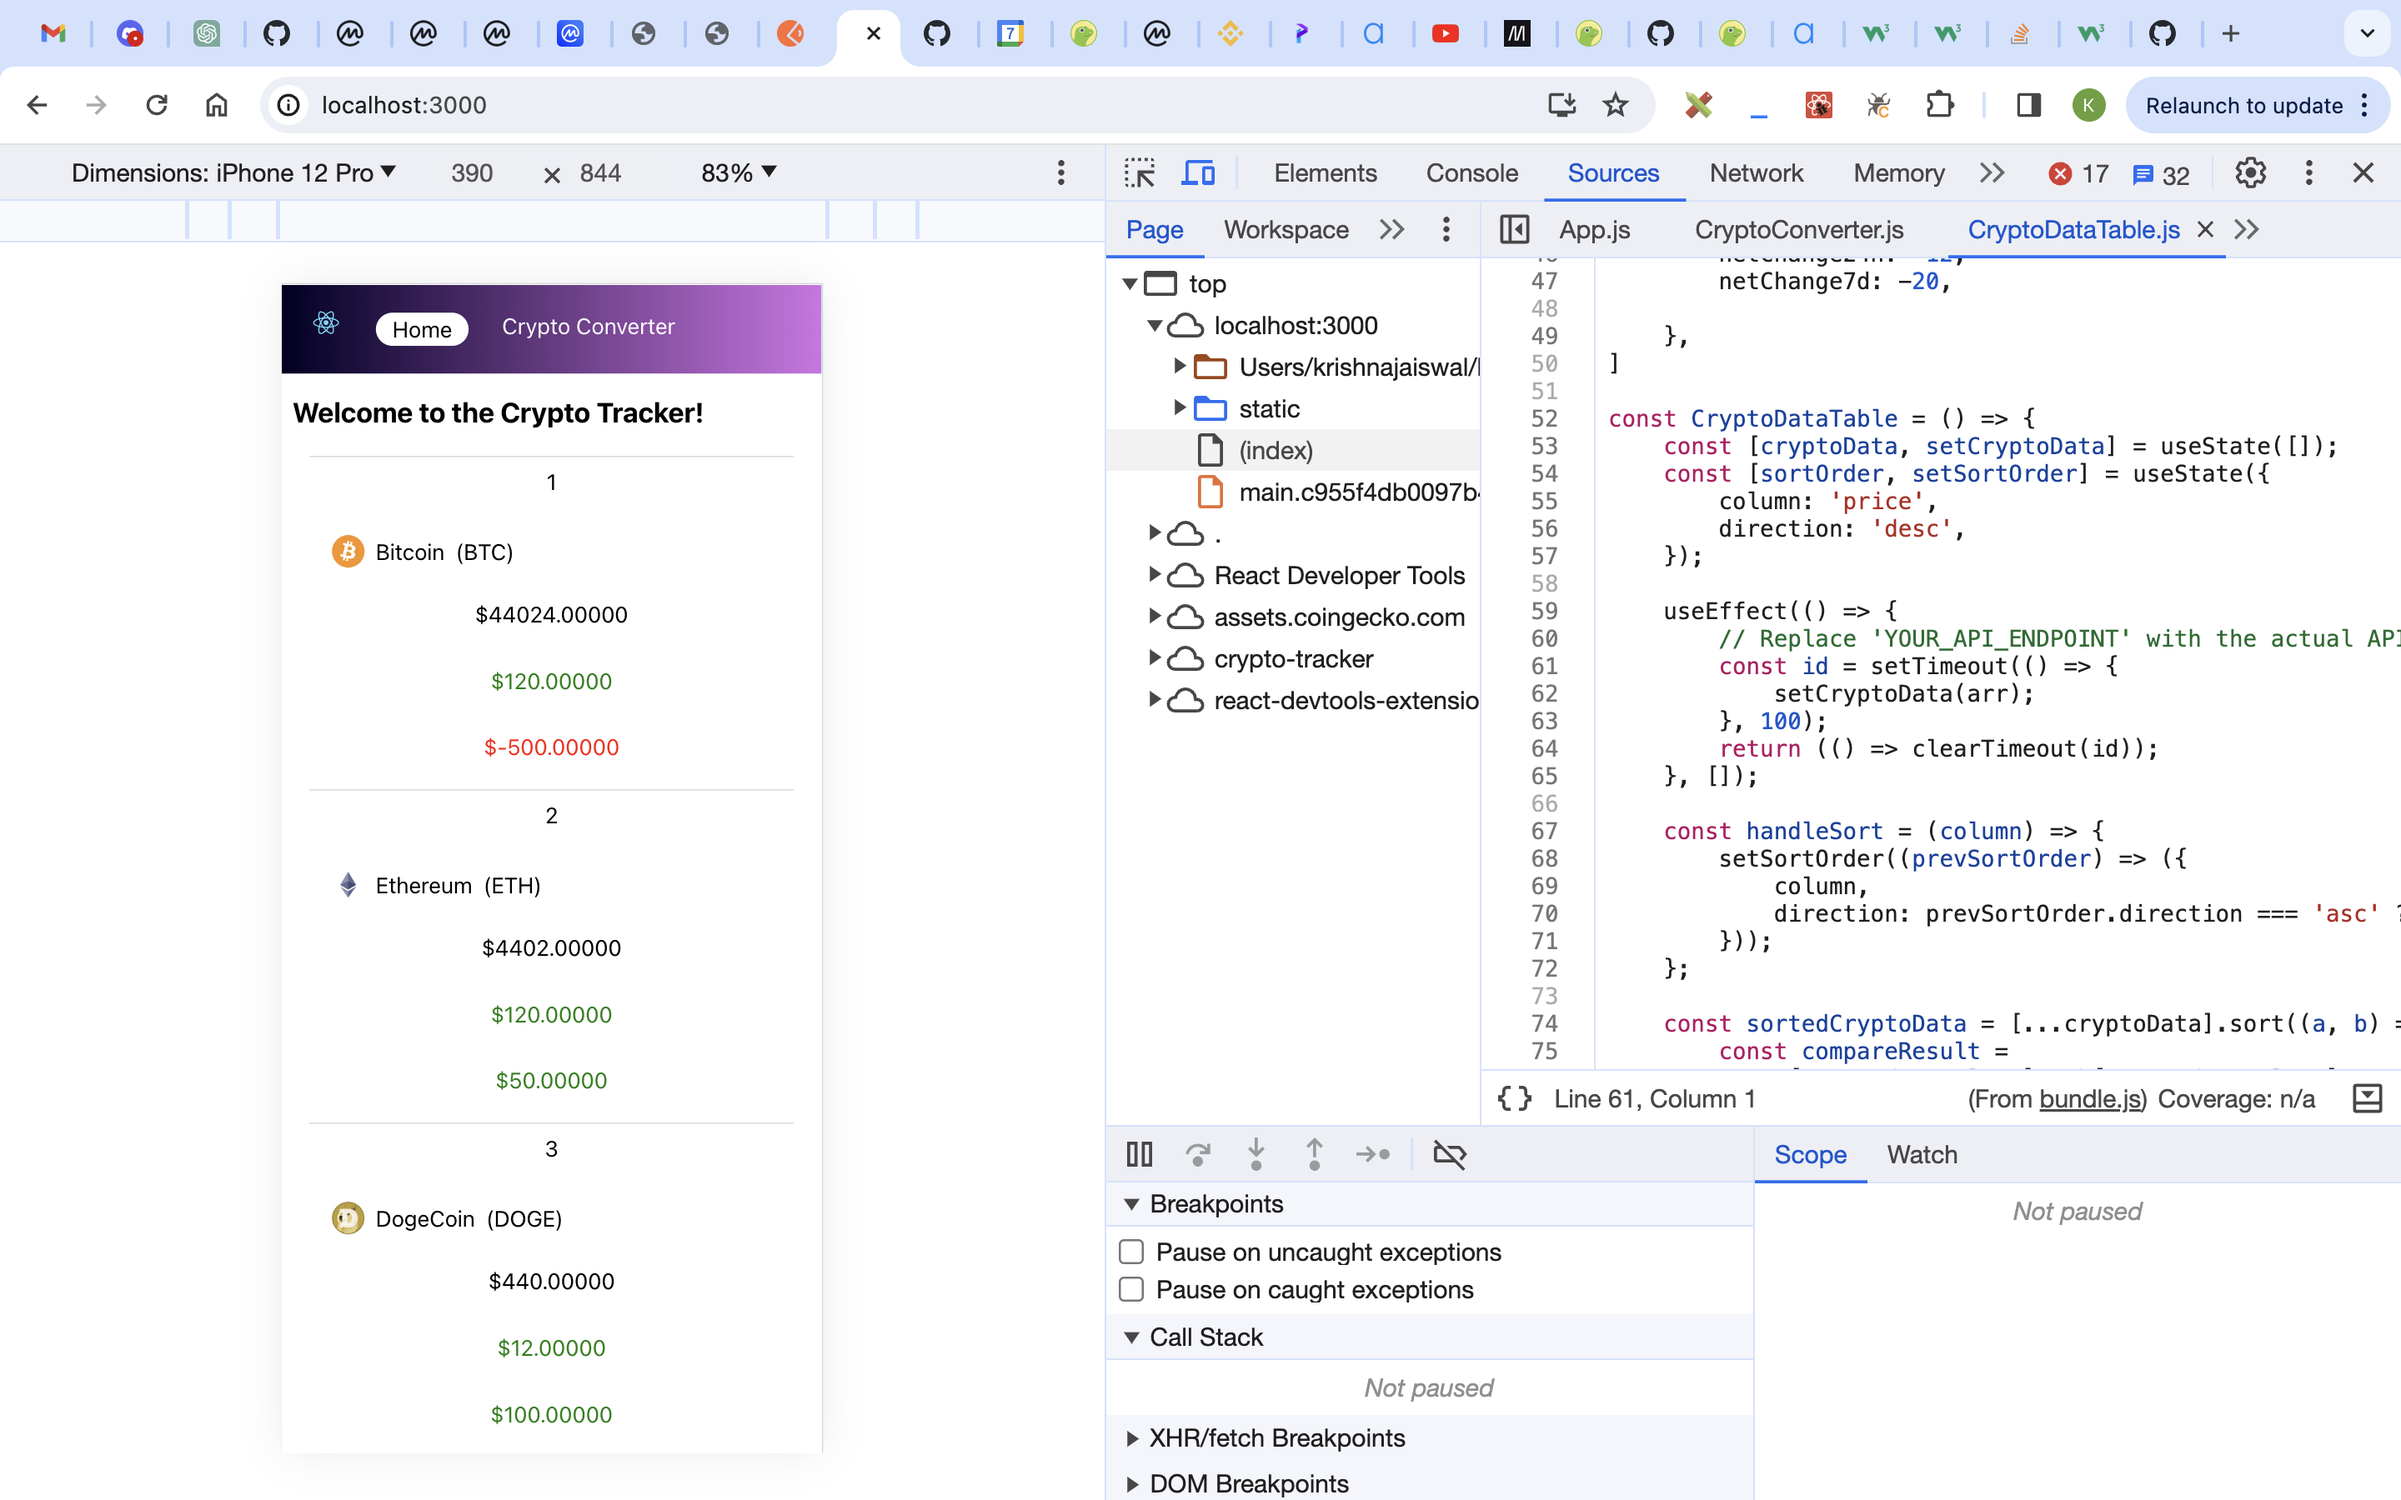
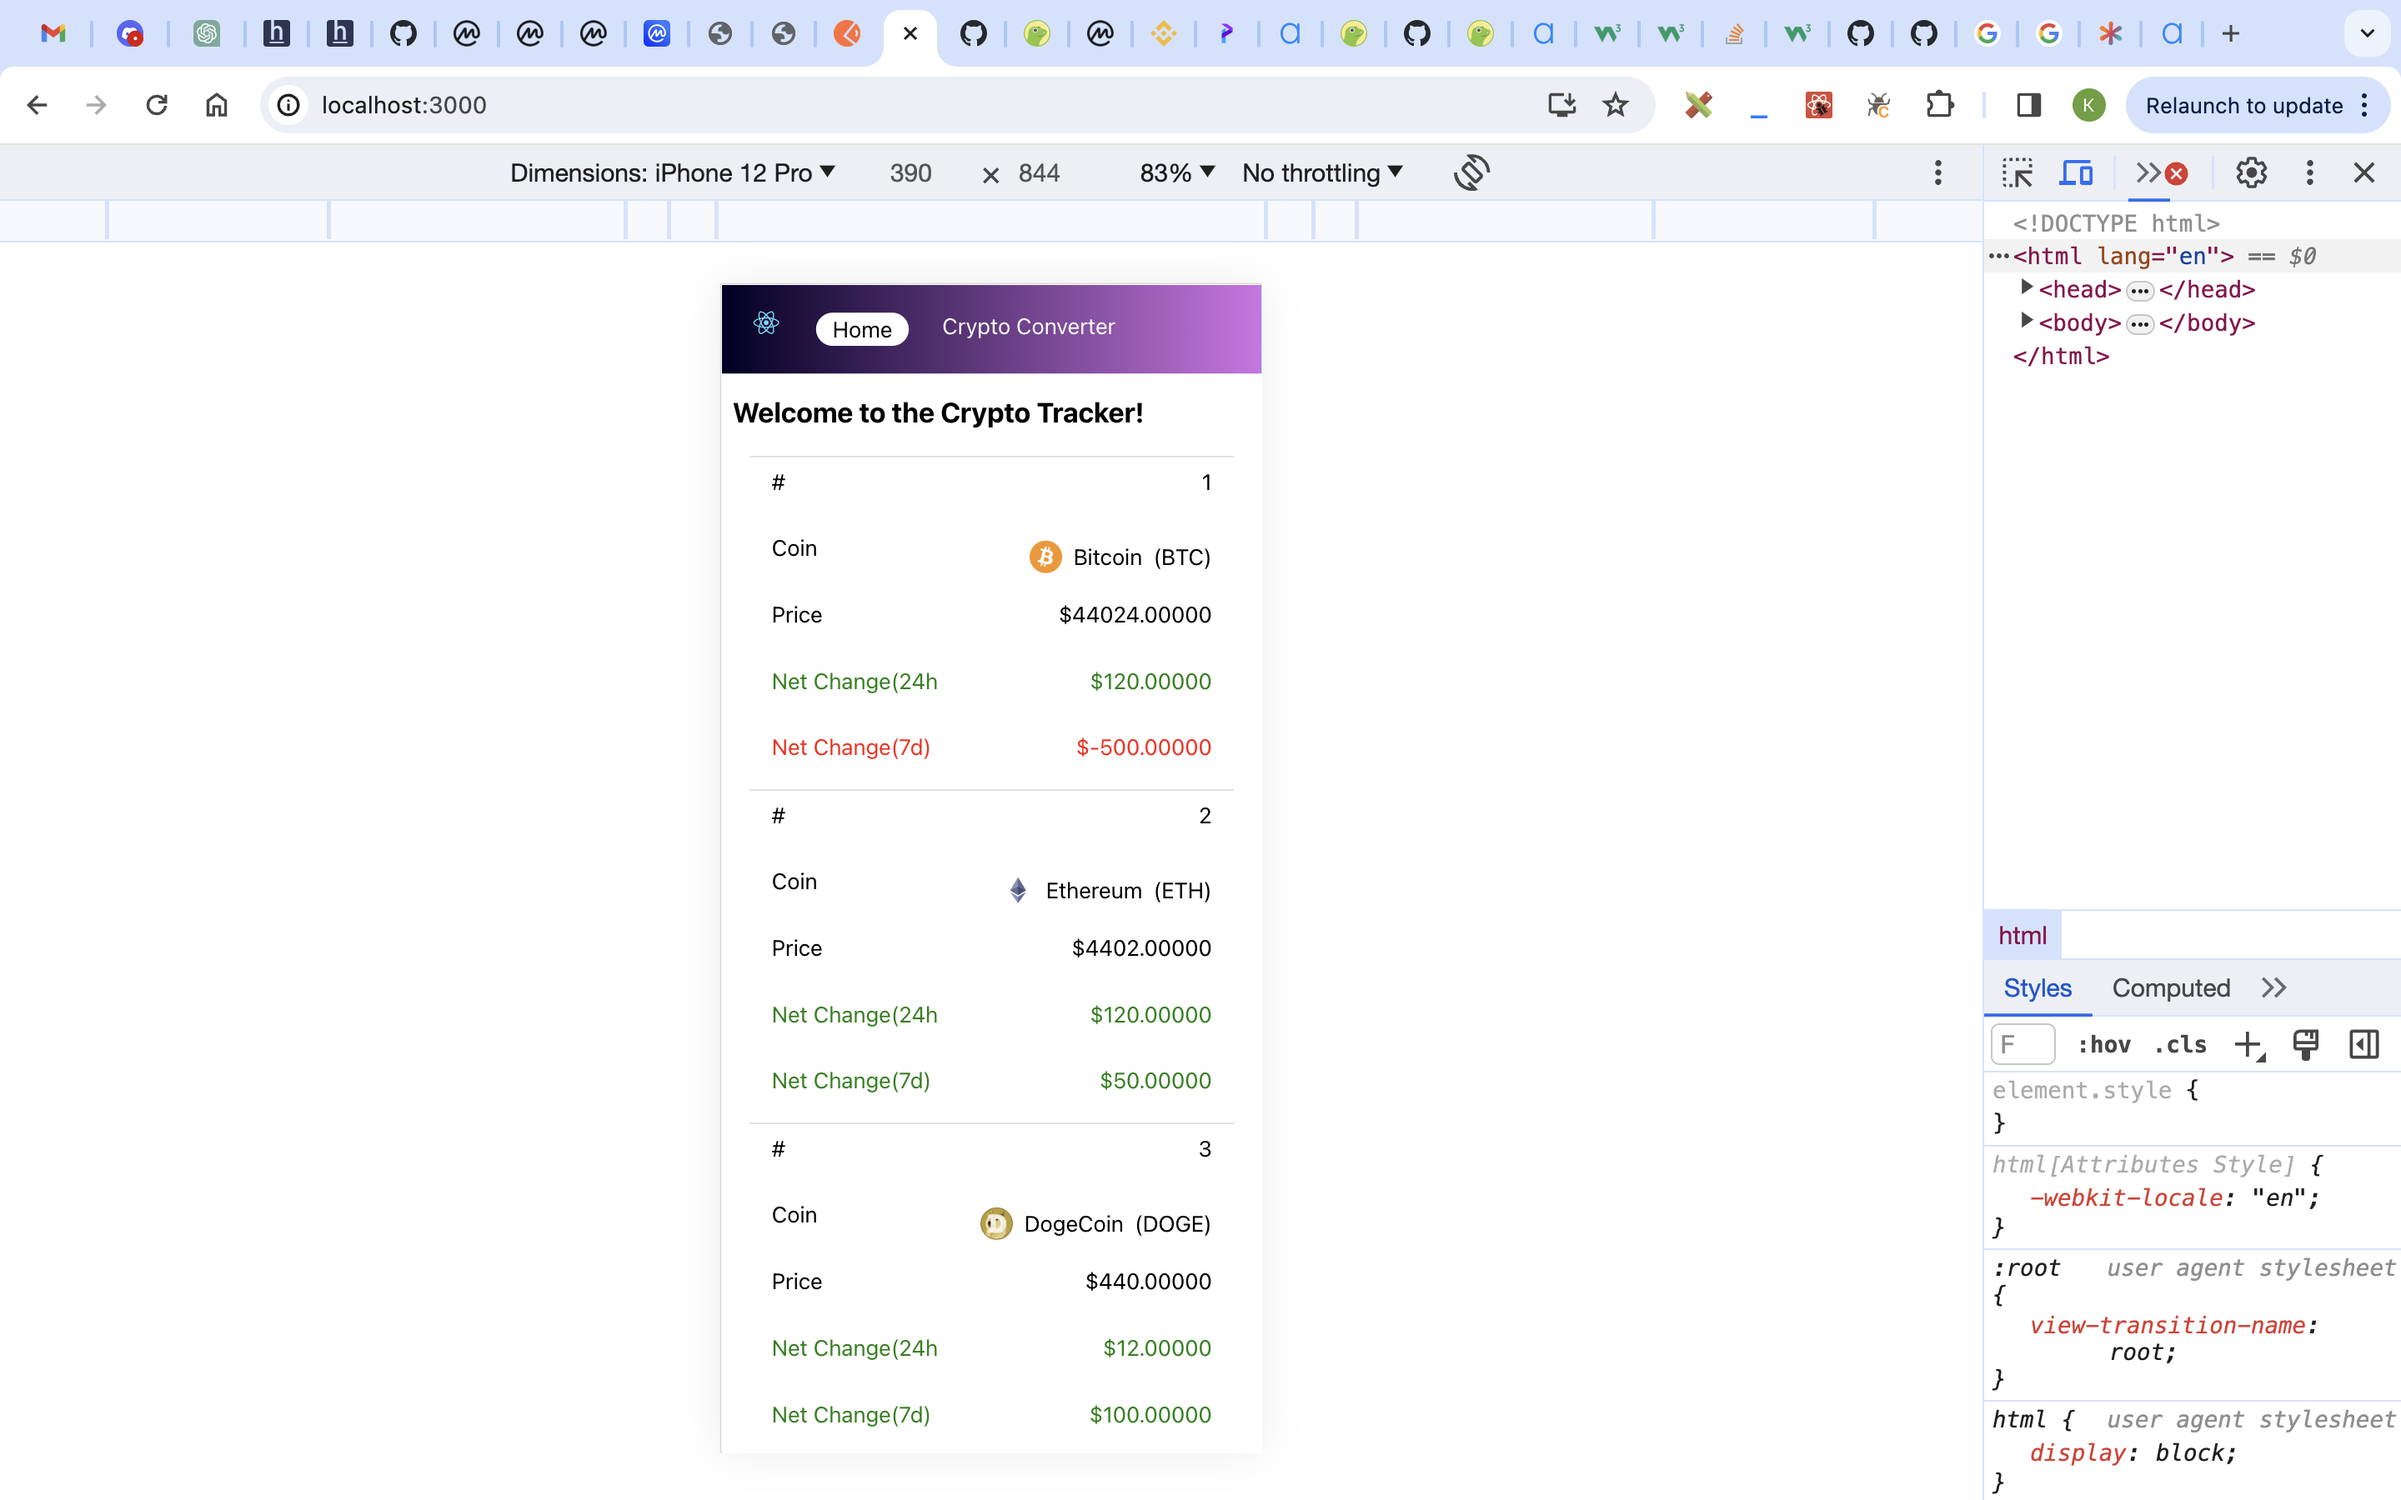
Changing image for mobile devices

diff --git a/src/components/CryptoDataTable.css b/src/components/CryptoDataTable.css
@@ -55,11 +55,19 @@ img {
     }
 
     td {
+        display: flex;
+        justify-content: space-between;
         border: none;
     }
 
     th {
         display: none;
+    }
+
+    .middle {
+        display: flex;
+        justify-content: center;
+        align-items: center;
     }
 
     tr {
@@ -69,4 +77,25 @@ img {
     .numberAlignment {
         text-align: center;
     }
+
+    td:nth-of-type(1):before {
+        content: "#";
+    }
+
+    td:nth-of-type(2):before {
+        content: "Coin";
+    }
+
+    td:nth-of-type(3):before {
+        content: "Price";
+    }
+
+    td:nth-of-type(4):before {
+        content: "Net Change(24h";
+    }
+
+    td:nth-of-type(5):before {
+        content: "Net Change(7d)";
+    }
+    
 }
